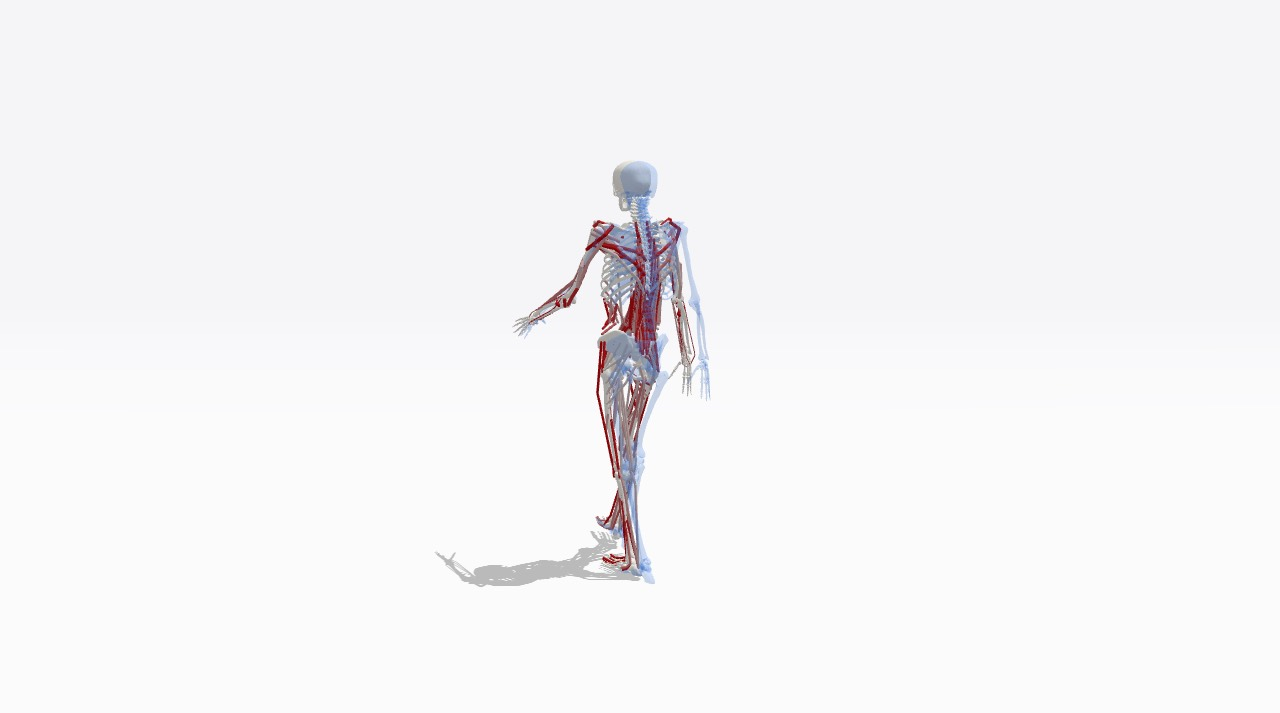
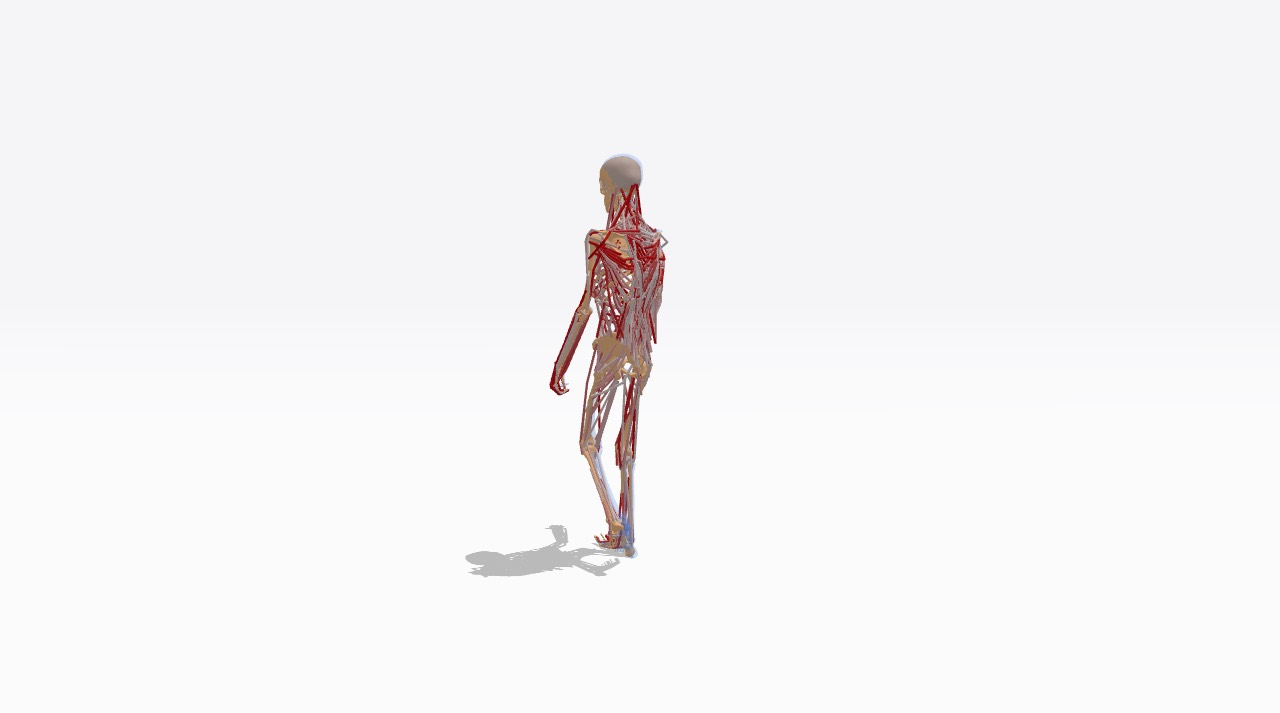
Describe the two-body live viewer on the project page
Its caption names both bodies and how the clips were picked, the play button gives MS-Human-700's download
(about 66 MB), and the cover shows MS-Human-700.

Changed region(s): [[0.3438, 0.216, 0.5625, 0.8331]]

diff --git a/docs/website/index.html b/docs/website/index.html
@@ -58,13 +58,14 @@
       <div class="live-frame" style="background-image: url(static/videos/live_poster.jpg);">
         <button class="live-start" type="button" data-src="demo/?embed">
           <svg viewBox="0 0 16 16" aria-hidden="true"><path d="M4 2.5v11a.5.5 0 00.76.43l9-5.5a.5.5 0 000-.86l-9-5.5A.5.5 0 004 2.5z"/></svg>
-          <span>Run it live in your browser</span><small>about 48 MB to download</small>
+          <span>Run it live in your browser</span><small>about 66 MB to download</small>
         </button>
       </div>
-      <figcaption><strong>MyoFullBody, live in your browser.</strong>Its checkpoint of iteration 16000 on 10 held-out clips:
-        MuJoCo's WebAssembly build simulates the body at 100 Hz and onnxruntime-web runs the policy, on your CPU. Blue is the
-        reference motion. Drag a bone to push the body, drag elsewhere to orbit, or open it
-        <a href="demo/">on its own page</a>.</figcaption>
+      <figcaption><strong>MS-Human-700 and MyoFullBody, live in your browser.</strong>Each body's checkpoint of iteration 16000
+        on 32 held-out clips of 11 kinds of motion, chosen below the view (per kind, the first clips of MuscleMimic's test list
+        that both checkpoints track to the end). MuJoCo's WebAssembly build simulates the body at 100 Hz and onnxruntime-web
+        runs the policy, on your CPU. Blue is the reference motion. Drag a bone to push the body, drag elsewhere to orbit, or
+        open it <a href="demo/">on its own page</a>.</figcaption>
     </figure>
   </div>
 </section>

diff --git a/docs/website/static/js/main.js b/docs/website/static/js/main.js
@@ -289,14 +289,14 @@ function lazyVideos() {
   vids.forEach((v) => io.observe(v));
 }
 
-// ── The live viewer: loaded on request (a 48 MB download), paused while out of sight ──
+// ── The live viewer: loaded on request (a 66 MB download for MS-Human-700), paused while out of sight ──
 function liveViewer() {
   const start = document.querySelector('.live-start');
   if (!start) return;
   start.addEventListener('click', () => {
     const frame = document.createElement('iframe');
     frame.src = start.dataset.src;
-    frame.title = 'MyoFullBody tracking a held-out clip, simulated live';
+    frame.title = 'A musculoskeletal body tracking a held-out clip, simulated live';
     frame.allow = 'fullscreen';
     frame.allowFullscreen = true;
     start.replaceWith(frame);
